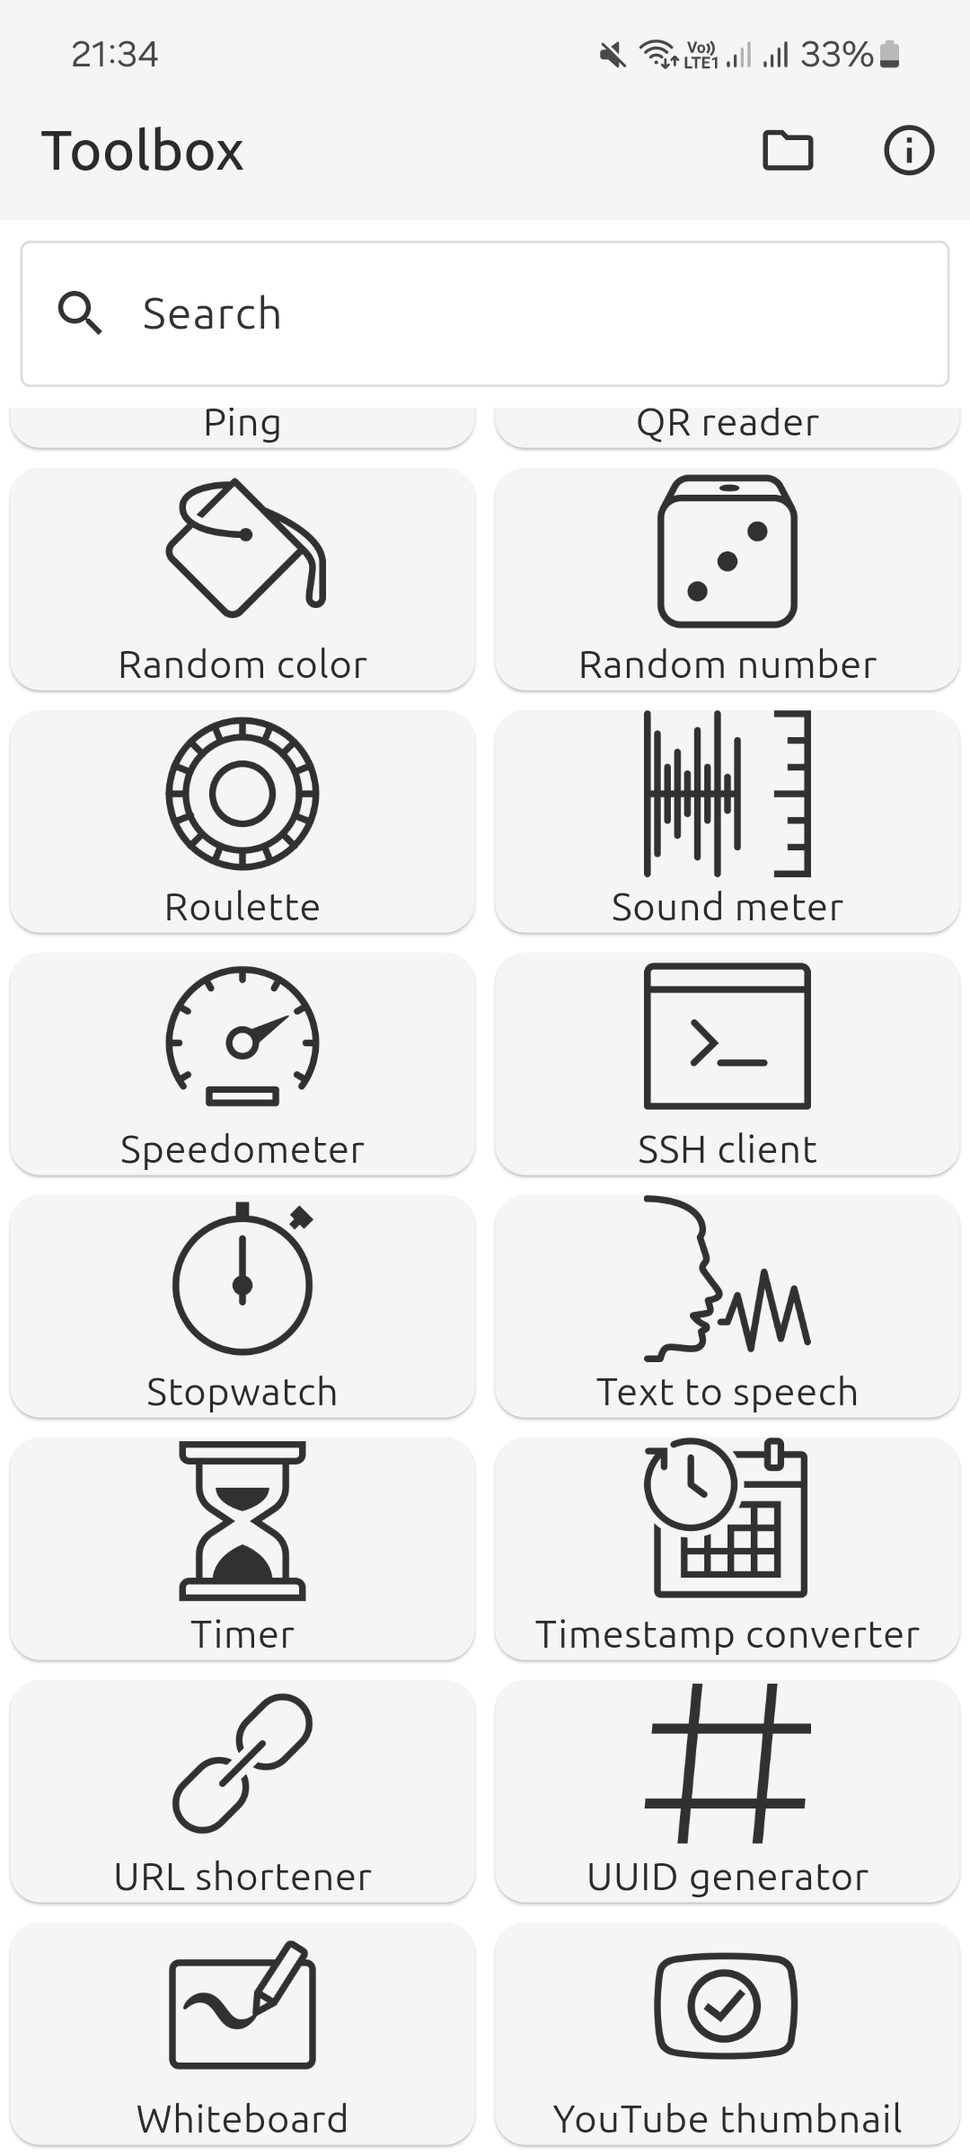
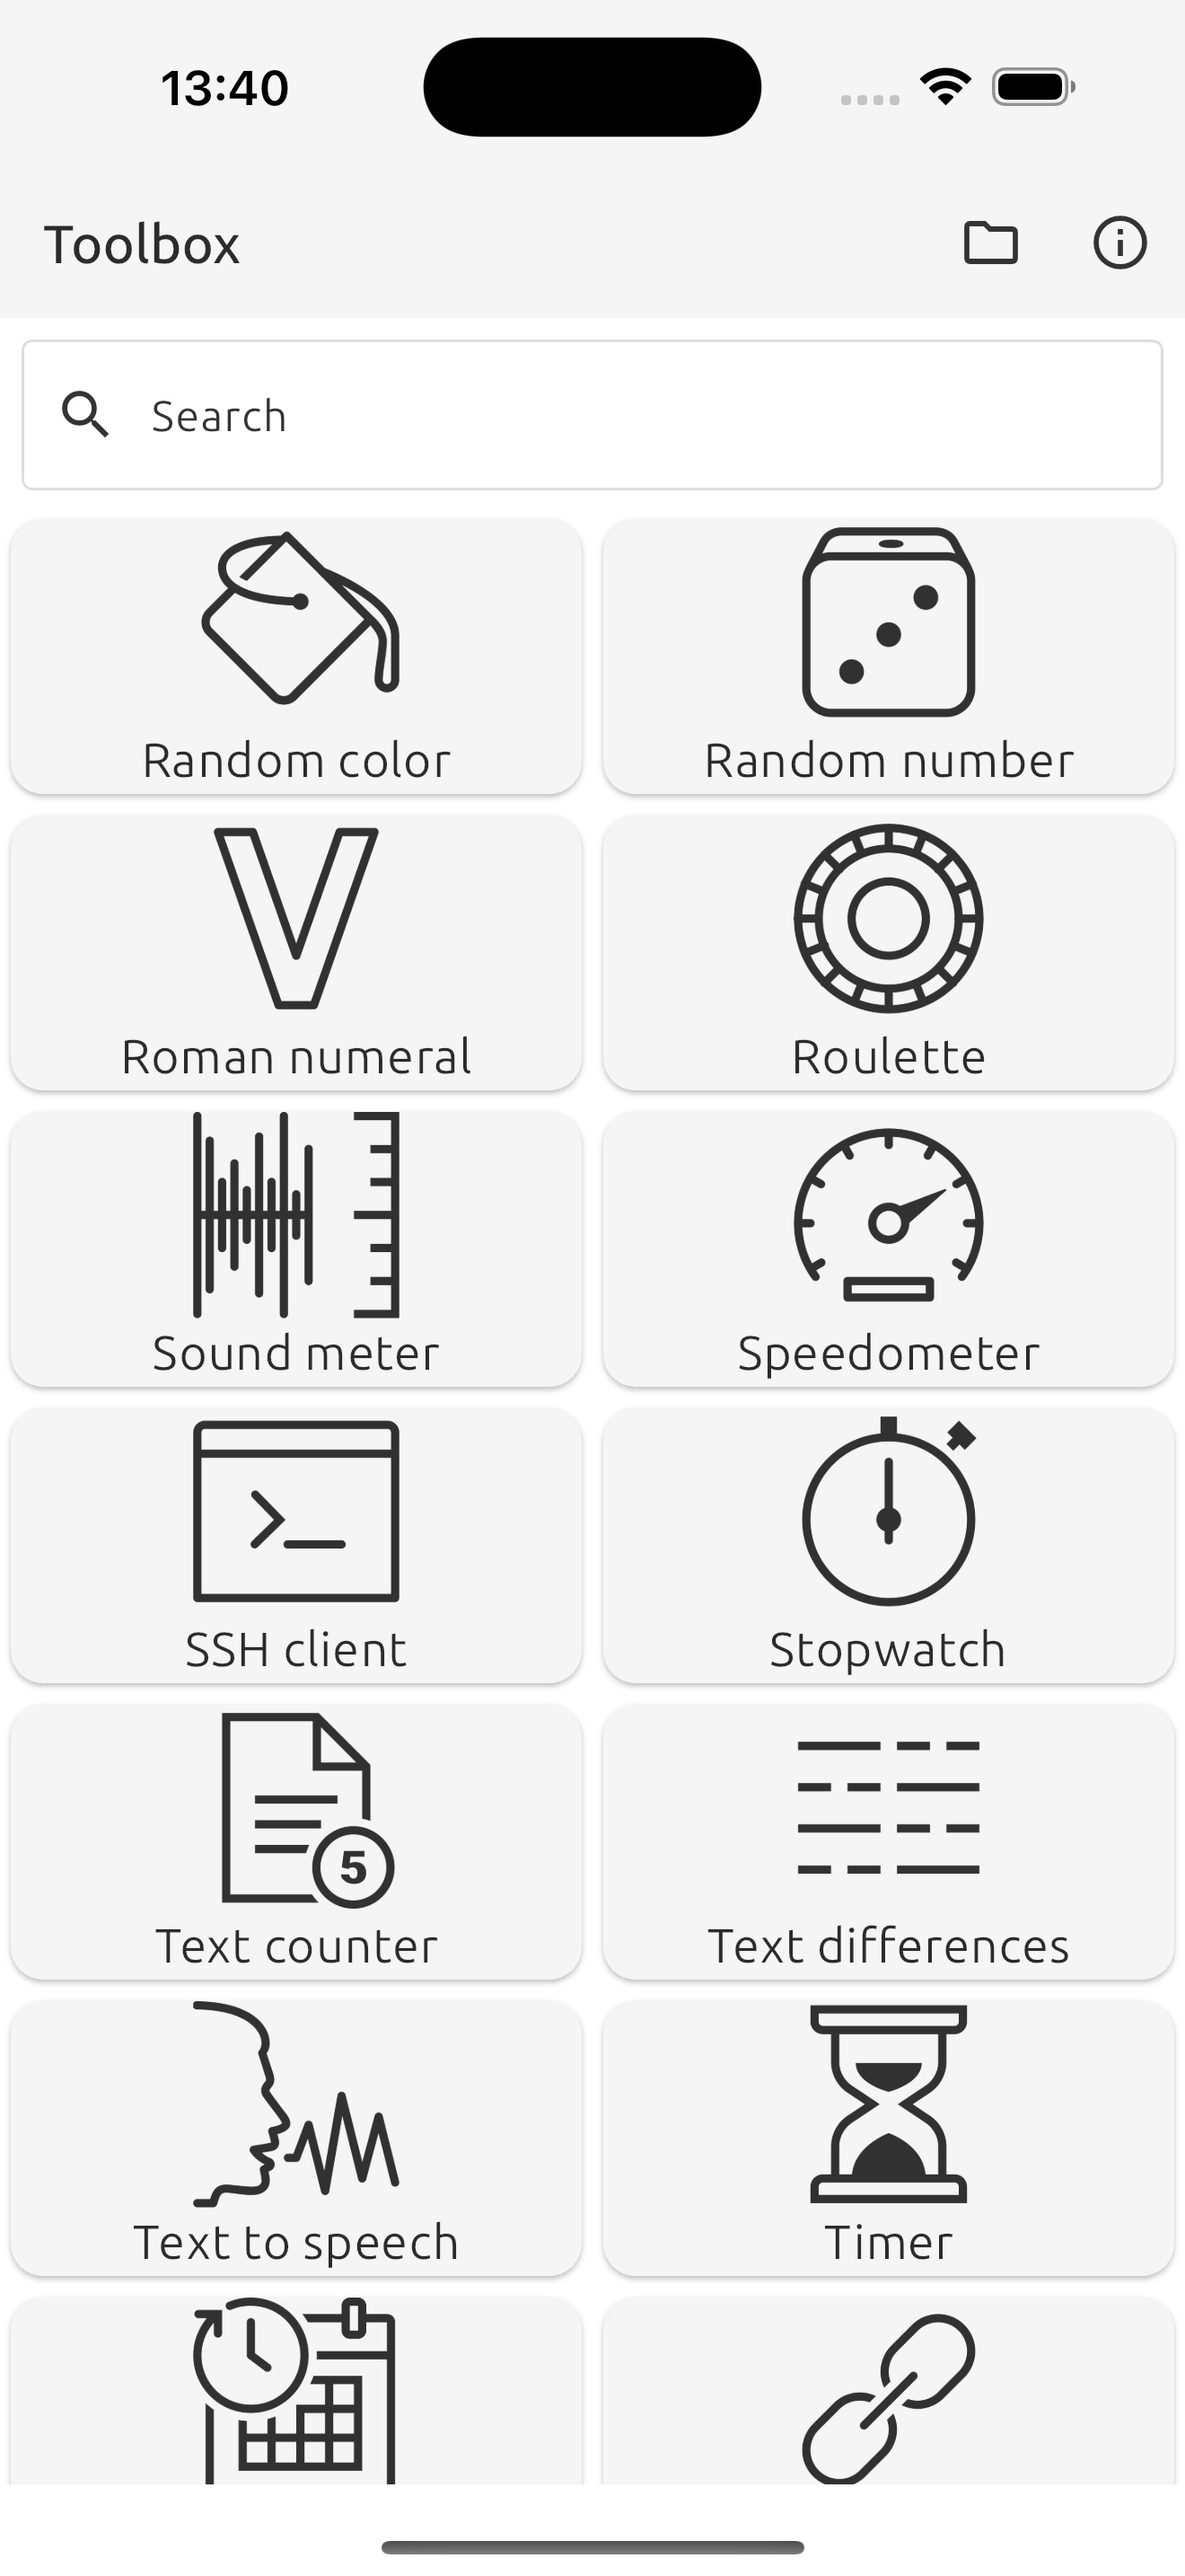
Update screenshots for the README

diff --git a/README.md b/README.md
@@ -111,6 +111,8 @@ If you have any question, you can contact me by email at [me@koizeay.com](mailto
   <img src="https://raw.githubusercontent.com/Koizeay/Toolbox/main/.github/screenshot06.jpg" alt="Screenshot 06" height="400">
   <img src="https://raw.githubusercontent.com/Koizeay/Toolbox/main/.github/screenshot07.jpg" alt="Screenshot 07" height="400">
   <img src="https://raw.githubusercontent.com/Koizeay/Toolbox/main/.github/screenshot08.jpg" alt="Screenshot 08" height="400">
+  <img src="https://raw.githubusercontent.com/Koizeay/Toolbox/main/.github/screenshot09.jpg" alt="Screenshot 09" height="400">
+  <img src="https://raw.githubusercontent.com/Koizeay/Toolbox/main/.github/screenshot10.jpg" alt="Screenshot 19" height="400">
 </p>
 
 ## License
